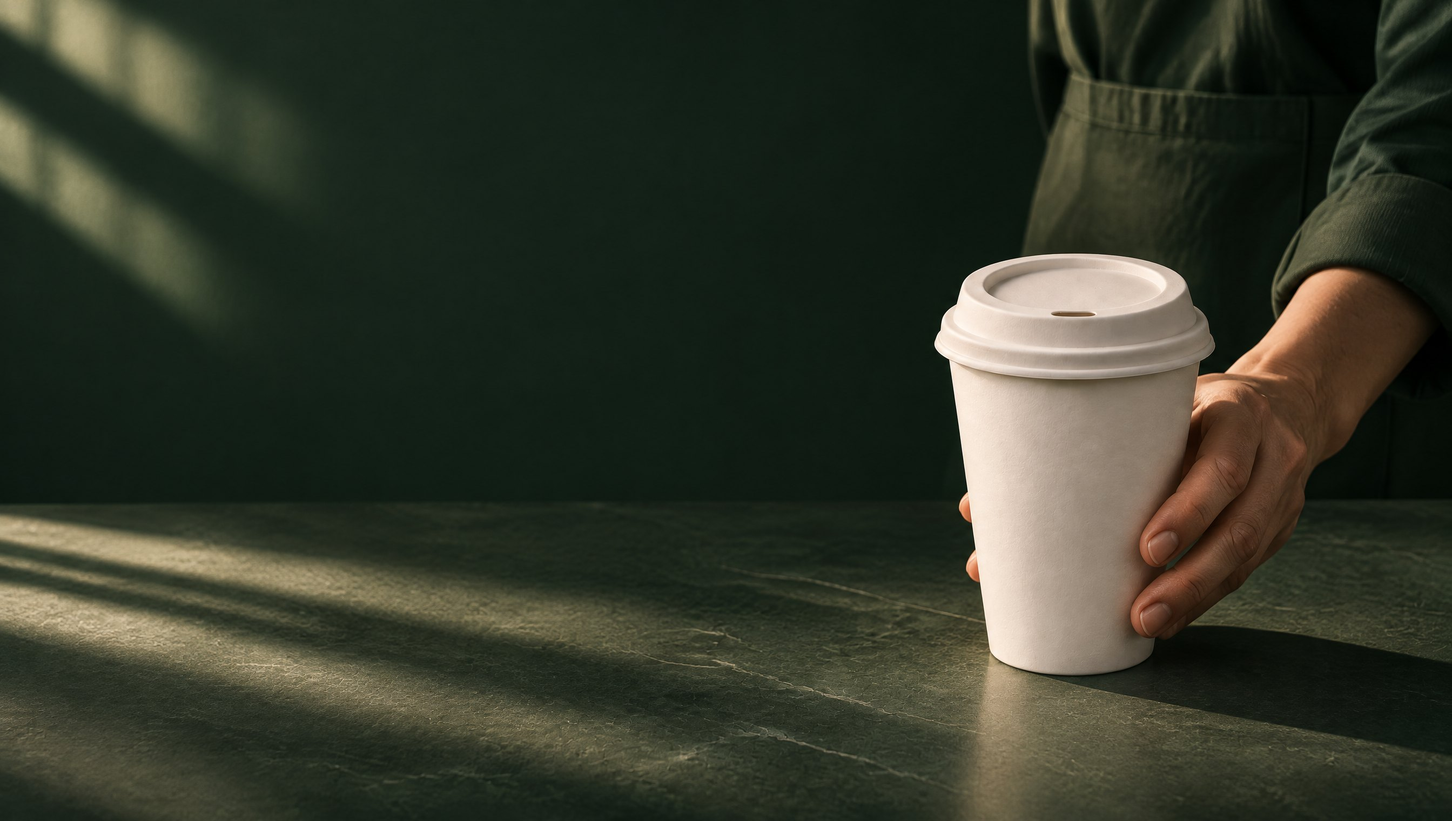
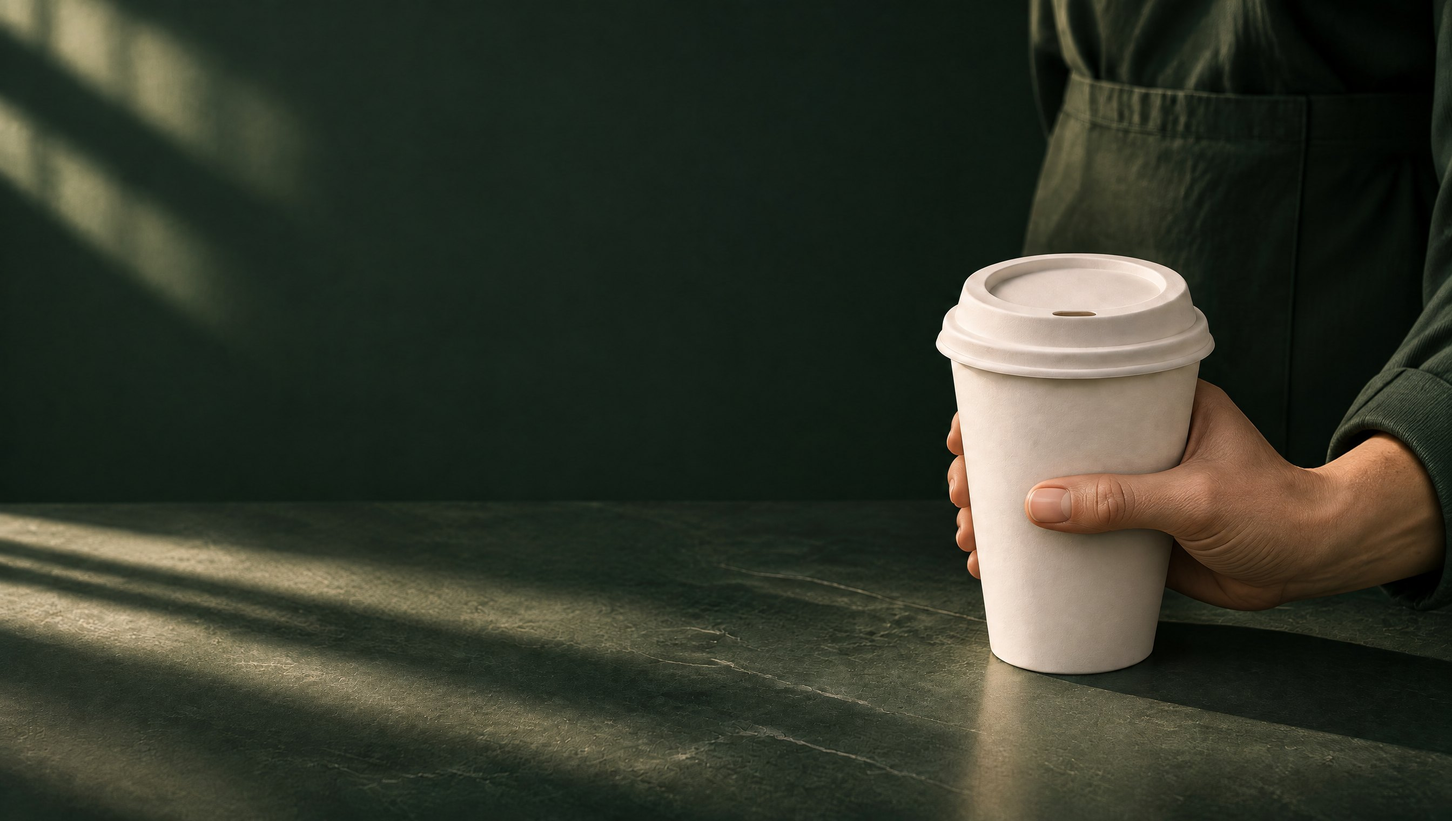
Hero: same frame, a natural grip on the cup
Regenerated the approved hero with the first take as the composition
reference and the hand spelled out (thumb across the front, four fingers
behind). Master 127; ASSET_VERSION 16.

diff --git a/src/lib/asset-version.ts b/src/lib/asset-version.ts
@@ -3,7 +3,7 @@
  * are replaced: the URLs change, so no browser or CDN keeps serving the old
  * files. next.config.ts allows exactly this query on local images.
  */
-export const ASSET_VERSION = "15";
+export const ASSET_VERSION = "16";
 
 export function v(publicPath: string): string {
   return `${publicPath}?v=${ASSET_VERSION}`;

diff --git a/CLAUDE.md b/CLAUDE.md
@@ -1,6 +1,6 @@
 # Made to Disappear site
 
-- Brand card (branch brand-card, 2026-11-12/13): docs/brand/brand-card-2026-11-12.md records the design card the user supplied in chat (the PDF was not saved) and asked to be applied to the whole site; it supersedes the colour and type guidance in docs/brand-card.md (routes, data model and claims rules there still apply). Palette: bone #EDE8DF page ground, paper #F6F2EB cards/inputs/image wells, ink #111111 text and primary buttons, soil #2A2420 the one dark band per page (the footer), stone #6B675F secondary text, ash #8B877F disabled/coming-soon/borders only, raw bamboo #C4A672 only as a left rule on notes (`.note`). The old token names in globals.css (`--color-forest`, `--color-cream`, `--color-mint`, `--color-sage`, `--color-clay`…) are kept so every utility still works, each remapped to a card colour; a "Brand card layer" at the end of globals.css overrides components: square corners everywhere except `.btn`/`.chip` (a `[class*="rounded-["]` override), no shadows/gradients/glass/mesh/grain, `.card` paper with a hairline and colour-only hover, outlined chips in lowercase, ink primary button + outlined others (one primary per screen; the header button is outlined), `.btn` and nav lowercase via text-transform, headings always ink, `.price-table`/`.spec-table` hairline rows with an ink rule under the header row, `.max-w-7xl` capped at 1120 px with 28 px gutters, Reveal fades only (200 ms), Marquee static. Type: Helvetica Neue / Arial system stack via `--font-display/--font-serif/--font-sans` (no Google fonts; JetBrains Mono stays for SKUs); .t-hero 72/1/700/-0.04em, .t-section 40, .t-page/.t-heading 26, .t-card 19, .t-lead 20/500, .t-label 11.5 caps stone. Headings are lowercase with a period in the copy itself (acronyms stay); PageHeader titles and most h2s were lowercased on 2026-11-13. Home page: hero (product on bone, headline "serve it. then let it go.", one primary + a text link, a hairline fact list), then numbered sections 01 the range (hairline product grid), 02 paper outside. PHA inside. (soil photo + hairline spec list), 03 after the coffee. (breakdown strip + three hairline columns), 04 what it costs. (CostCalculator, hairline receipt), 05 the Inner Harbour (desaturated photo + hairline stats), 06 asked often.; the footer is the only soil band and carries "keep it. then let it go." Photography (2026-11-13, GPT Image 2.6 via Higgsfield from the renders and the badge, masters in docs/brand/generated/60–65): public/hero-bone.jpg (16:9), `[sku]-front.jpg` the 4:5 pair with the base mark, `[sku]-3q.jpg` single standing cups cropped from one three-cup frame, lid front/3q; all on bone #EDE8DF with one hard light and a real shadow. ProductImage frames are 4:5 object-cover. public/icon.png and apple-icon.png are the card's favicon: an ink dot on bone, low and right.  Interaction layer (2026-11-13, after the user said the photos were off-centre and the site had no features): the product photography was regenerated on 2026-11-13 with the subject dead centre and a short soft shadow (GPT Image 2.6, masters docs/brand/generated/80–87: hero lineup, three front pairs, lid pair, three standing cups; visual mass measured within 5% of centre with the scratchpad measure.py), the 16 oz pair and standing shot were regenerated at real proportions (13.5 cm tall on a 90 mm rim, masters 92–93) after the first read as a giant tumbler (user, 2026-11-13); the lid photos are lid-only (a single lid front, a stack of three for the hover shot, two lids for card-lids.jpg; masters 89–91) because a cup wearing the lid read as another cup SKU (user, 2026-11-13), then the product tiles and gallery cut tight so the cups fill the 4:5 frame and bleed top and bottom (user, 2026-11-13: "like this… not in the middle", shown on the range tiles only); the hero keeps the full centred lineup with its margins; re-cropping the first set never looked right because the long hard shadows ran to one edge. Every photo URL carries ?v=ASSET_VERSION from src/lib/asset-version.ts (next.config.ts images.localPatterns allows exactly that query): bump the constant whenever a photo file is replaced, or browsers keep the old file for hours. soil-mark.jpg is a Higgsfield outpaint of the original (master 72), and public/breakdown/1–4.jpg are 4:5 cuts of the 4k-upscaled strip (master 73). The header is transparent until the page scrolls (ScrollState sets data-scrolled; the brand layer then paints it bone with a hairline). Home page (rebuilt 2026-11-14 to sit "just like nothing.eco", after the user asked; this supersedes the 2026-11-13 layout below): a full-bleed photograph hero (public/hero-green.jpg, master docs/brand/generated/123, a barista setting a lidded cup on a dark green stone counter with the left two thirds dark) with the headline bottom-left in bone, one bone-filled `.btn-bone` button and the from-price; phones stack the 4:5 photo over a dark green panel so the headline never crosses the cup; then "as heard on" as a label on a hairline with the CBC credit; two square photo category cards (shared-trio, shared-lid-on) with title, line and outlined bone `.chip-shot` chips at the top and a bone button bottom-left; a full-width soil band (breakdown/4.jpg under a flat `.photo-shade`) with the lining statement centred; "the range." as four ProductCards; "what happens after." with the scrubber; "we asked 167 people first." with the three percentages in hairline columns; the calculator; the FAQ. `.on-photo` sets headings to bone (the brand layer otherwise forces headings ink). The cup alts were reshot the same day with the current badge after the user pointed out the first green set carried the old arc-text mark, then reshot again at a three-quarter angle (the straight-on base view "looks like a cylinder", user) with the badge printed without its circle: the black circle in docs/brand/badge-cup-base.png was only a placeholder for the cup base, so docs/brand/badge-cup-base-nocircle.png is the reference to use (masters 124–126). The soil-mark and breakdown frames (public/soil-mark.jpg, public/breakdown/1–4.jpg) still show the mark with the circle and have not been reshot. Card rules the user set on 2026-11-14, overriding the brand card for the catalogue cards only: white type on the photo cards, 10 px corners on `.shot-card`/`.featured-tile`, the order button `.btn-order` in raw bamboo with a 3 px solid base shadow (the one "3D" element on the site), catalogue grids three across (closer tiles removed from the pages; the prop remains), related row three across. Earlier home page (2026-11-13, kept for history: the user had asked for "a mix between Bloom Energy and nothing.eco" in the card's colours; the numbered-section layout was rejected because its 160 px number column pushed every section right of centre): two-column hero (`.bleed`; headline column left, the lineup in its own column right as a cut-out: public/hero-lineup.png is an RGBA PNG (master docs/brand/generated/95-hero-lineup-cut.png) made from the centred lineup (master 94) with a difference matte (scratchpad matte.py: local background by normalised convolution, alpha from colour distance, silhouette filled solid, shadows kept semi-transparent, colour un-premultiplied), so the cups and their shadows stand on the page bone with no photo plate; a colour-matched plate was tried first (hero-lineup.jpg) and rejected by the user on 2026-11-13 as "unnatural" because the rectangle still showed; shown whole with object-contain, 8:5 frame above the text on phones; public/hero-wide.jpg (master 88) is kept but unused), a four-cell trust strip on hairlines (CBC, TÜV Austria, lining, ships from), two square feature cards with the photo as the card and text over the empty bone (card-cups.jpg / card-lids.jpg), a split statement band (the one soil panel `bg-soil-band` left, soil-mark.jpg right), "after the coffee." with the scrubber, a Bloom-style stat band (sentence + three counting percentages in hairline cells), "the range." tiles with a from-price and an outlined order button, the calculator, a full-width hairline FAQ; every section heading is a SectionHead (heading left, one outlined action right) and spans the full 1120 px. The footer ends with the wordmark set across the full width at 18% (`.footer-mark`). Copy voice (user, 2026-11-13: the copy "sounds AI"): write like the founders talk to a café owner. Plain sentences, one thought each, concrete nouns (paper, lining, bacteria, compost pile, case of 1,000). No fragment triads ("serve it. compost it. done."), no aphorisms ("the whole promise", "nothing left behind"), no clever taglines; the footer line is "hot cups and lids that compost at home. Victoria, BC." and the hero reads "a hot cup you can compost at home." Lowercase headings with a period stay; the words inside them should still be ordinary. Final pass (2026-11-13, after a whole-site design review): the home press band is the CBC credit alone ("as heard on · CBC Radio One · All Points West with Jason D'Souza"; the user asked for just that, no other trust facts); every product-level certification sentence was rewritten to the material claim (learn.ts, hero, about, whats-in-your-cup); `.spec-table` width rule now targets `tbody th:first-child` only and the compare table is `table-fixed`; `.spec-wrap` drops the doubled last line in bordered spec tables; NotifyForm compact stacks input over button; QuickOrder placeholder uses live SKUs; category pages get 3-across for cups plus the sample/quick-order notes; the top announcement band is hidden on phones and the consumer/business toggle sits beside the phone search field; the account sign-in uses PageHeader; the compost certificate band and custom-printing step 04 became notes; legal headings are lowercase with a period; the hero plate (hero-wide.jpg) is colour-matched to bone #EDE8DF so it meets the page without a step. The user still owes: `npm run db:seed` (prices), the "not plastic" wording decision (learn says PHA counts as a plastic under the EU definition; the hero and certifications page say no plastic lining), and the certificate numbers. Catalogue (rebuilt 2026-11-13 after the user asked for product cards and product pages like nothing.eco, whose palette is almost ours: page #EDE6DD, cards #F6F3EE, ink #1D1D1B; the difference is the photography and the card structure): the photograph is the card. ProductCard is a 2:3 photo tile with the category label, SKU, lowercase name and tagline in bone over the dark back wall, and CardPrice (business: from ¢ a cup · case; consumer: pack price), the stock line and one outlined bone "order" button (`.btn-shot`) over the floor; HoverSwap fades to `[sku]-alt.jpg` (cups on their side with the base mark, the lid on a cup). The card is a CSS container: under 320 px (phones two across, the home row of four) it drops tagline, SKU and stock line and puts the price beside a small button so nothing crosses the cup. CatalogGrid: toolbar (pills, count, search), a hairline row of five facts, then a 3-across grid (2 on phones) with an optional `featured` lifestyle tile spanning two columns (products: the café-counter shot; lids: the barista hand; cups: none). Product page: ProductGallery is one 4:5 frame with cross-fading slides, round outlined arrows, dots and touch swipe (no thumbnails, no `motion`); the buy column is label · SKU, t-section name with a period, a plain lead (tagline + material + case count), CertChip, a fact row, size chips, Price, then AddToCart in its full form (unit chips, a −/+ stepper bar reading quantity · units · price each · line total, one primary add to cart), the volume/quote line, "pair it with" PairedAdd rows (photo, name, from-price, square + button), and a "details and specs." accordion holding SpecTable; under the gallery a custom-printing card; below, the FAQ and a two-up band (counter photo + paper panel linking /compost). Photography: public/products/README.md lists the set (fronts, alts, shared-trio/lid-on/case/life-hand/life-counter). Reshot on 2026-11-14 on a deep bottle-green sweep after the user asked for "a luxurious dark green" instead of brown (masters docs/brand/generated/108–119, GPT Image 2.6 at quality medium, 0.5 credits a 1k frame and 1.0 at 2k; the kraft frames 96–107 were fed back as composition references so every green frame matches its predecessor); a local hue-shift of the kraft frames was tried first and rejected as a tinted photo. Base-mark frames read only "made to disappear. / home compostable / no microplastics", never a certifier name. Layout pass the same day to sit "almost exactly" on nothing.eco: catalogue and category pages open with breadcrumb + title + lead (no PageHeader band), pills and search on one row, a single-line scrolling `.facts-strip` with circled ticks, then a 4-across grid (2 on phones) where the featured lifestyle tile takes two cells at the top and `closers` (more lifestyle tiles, span 1 or 2) finish the last row so every row is full (products: counter + 4 cards + barista; cups: 3 cards + trio; lids: barista + lid + lid-on); the card is `aspect-[2/3]` with the photo in a `.shot-well` 12% taller than the card so the cup sits clear of the price, no stock line on the tile, compact layout under 240 px (`@[15rem]`); the product page is `1.5fr 1fr` with a square gallery (filled arrows, bone dots inside the frame), round `.size-pill` sizes, no separate Price block (the stepper carries the price), a "goes with it." ProductCard row at the end, and /products ends with a six-question "asked often." FAQ from homeFaq. The home feature cards now use shared-trio.jpg and the lid-on-cup frame, and the home range row uses ProductCard. The `motion` library is no longer imported by CatalogGrid or ProductGallery. SectionRail/CountUp/BreakdownScrubber/HoverSwap remain as components (SectionRail is no longer rendered). Motion layer (end of globals.css, all inside prefers-reduced-motion: no-preference): `.hero-in` children rise in with a stagger and `.hero-photo` settles from a 1.04 scale on load (scale only, never opacity: a fade on the hero image delays LCP; CSS only, no JS on the critical path); Reveal/RevealGroup now fade and rise 14 px over 700 ms with the stagger step; `.drift` gives the soil photo an 18 s alternate zoom; `.zoom-on-hover` and HoverSwap scale the photo 1.035 on hover; buttons lift 1 px on hover and press to 0.98; details answers rise in; smooth scrolling. HoverSwap fades product tiles and cards to the standing `-3q` shot on hover (Product.hover from withAssets), BreakdownScrubber is the four-frame well you drag across or pick a stage from (it steps through once on arrival, then only moves when moved), CountUp counts the survey percentages in. All fades, nothing slides. Harnesses: scratchpad hovershot.mjs (hover + screenshot) and scrollshot.mjs. Phone pass 2026-11-13: every page checked at 390 px with no overflow; the trust strip is 2×2 on phones, the hero photo stacks above the text with the lineup at 58%, interactive chips and small buttons get 36–44 px hit areas under (hover: none); Lighthouse mobile on the local build scored 90 with CLS 0. The older passes live on branches calmer-register and draft-blend; the user's standing rules from them still hold (no "per SKU", flat 16/17/18¢ pricing, Learn library, cost calculator as a sentence + receipt).
+- Brand card (branch brand-card, 2026-11-12/13): docs/brand/brand-card-2026-11-12.md records the design card the user supplied in chat (the PDF was not saved) and asked to be applied to the whole site; it supersedes the colour and type guidance in docs/brand-card.md (routes, data model and claims rules there still apply). Palette: bone #EDE8DF page ground, paper #F6F2EB cards/inputs/image wells, ink #111111 text and primary buttons, soil #2A2420 the one dark band per page (the footer), stone #6B675F secondary text, ash #8B877F disabled/coming-soon/borders only, raw bamboo #C4A672 only as a left rule on notes (`.note`). The old token names in globals.css (`--color-forest`, `--color-cream`, `--color-mint`, `--color-sage`, `--color-clay`…) are kept so every utility still works, each remapped to a card colour; a "Brand card layer" at the end of globals.css overrides components: square corners everywhere except `.btn`/`.chip` (a `[class*="rounded-["]` override), no shadows/gradients/glass/mesh/grain, `.card` paper with a hairline and colour-only hover, outlined chips in lowercase, ink primary button + outlined others (one primary per screen; the header button is outlined), `.btn` and nav lowercase via text-transform, headings always ink, `.price-table`/`.spec-table` hairline rows with an ink rule under the header row, `.max-w-7xl` capped at 1120 px with 28 px gutters, Reveal fades only (200 ms), Marquee static. Type: Helvetica Neue / Arial system stack via `--font-display/--font-serif/--font-sans` (no Google fonts; JetBrains Mono stays for SKUs); .t-hero 72/1/700/-0.04em, .t-section 40, .t-page/.t-heading 26, .t-card 19, .t-lead 20/500, .t-label 11.5 caps stone. Headings are lowercase with a period in the copy itself (acronyms stay); PageHeader titles and most h2s were lowercased on 2026-11-13. Home page: hero (product on bone, headline "serve it. then let it go.", one primary + a text link, a hairline fact list), then numbered sections 01 the range (hairline product grid), 02 paper outside. PHA inside. (soil photo + hairline spec list), 03 after the coffee. (breakdown strip + three hairline columns), 04 what it costs. (CostCalculator, hairline receipt), 05 the Inner Harbour (desaturated photo + hairline stats), 06 asked often.; the footer is the only soil band and carries "keep it. then let it go." Photography (2026-11-13, GPT Image 2.6 via Higgsfield from the renders and the badge, masters in docs/brand/generated/60–65): public/hero-bone.jpg (16:9), `[sku]-front.jpg` the 4:5 pair with the base mark, `[sku]-3q.jpg` single standing cups cropped from one three-cup frame, lid front/3q; all on bone #EDE8DF with one hard light and a real shadow. ProductImage frames are 4:5 object-cover. public/icon.png and apple-icon.png are the card's favicon: an ink dot on bone, low and right.  Interaction layer (2026-11-13, after the user said the photos were off-centre and the site had no features): the product photography was regenerated on 2026-11-13 with the subject dead centre and a short soft shadow (GPT Image 2.6, masters docs/brand/generated/80–87: hero lineup, three front pairs, lid pair, three standing cups; visual mass measured within 5% of centre with the scratchpad measure.py), the 16 oz pair and standing shot were regenerated at real proportions (13.5 cm tall on a 90 mm rim, masters 92–93) after the first read as a giant tumbler (user, 2026-11-13); the lid photos are lid-only (a single lid front, a stack of three for the hover shot, two lids for card-lids.jpg; masters 89–91) because a cup wearing the lid read as another cup SKU (user, 2026-11-13), then the product tiles and gallery cut tight so the cups fill the 4:5 frame and bleed top and bottom (user, 2026-11-13: "like this… not in the middle", shown on the range tiles only); the hero keeps the full centred lineup with its margins; re-cropping the first set never looked right because the long hard shadows ran to one edge. Every photo URL carries ?v=ASSET_VERSION from src/lib/asset-version.ts (next.config.ts images.localPatterns allows exactly that query): bump the constant whenever a photo file is replaced, or browsers keep the old file for hours. soil-mark.jpg is a Higgsfield outpaint of the original (master 72), and public/breakdown/1–4.jpg are 4:5 cuts of the 4k-upscaled strip (master 73). The header is transparent until the page scrolls (ScrollState sets data-scrolled; the brand layer then paints it bone with a hairline). Home page (rebuilt 2026-11-14 to sit "just like nothing.eco", after the user asked; this supersedes the 2026-11-13 layout below): a full-bleed photograph hero (public/hero-green.jpg, master docs/brand/generated/127, a barista holding a lidded cup on a dark green stone counter with the left two thirds dark; master 123 was the first take, which the user liked but whose hand had two fingers one side and three the other, so it was regenerated with 123 as the composition reference and the grip spelled out: thumb across the front, four fingers behind) with the headline bottom-left in bone, one bone-filled `.btn-bone` button and the from-price; phones stack the 4:5 photo over a dark green panel so the headline never crosses the cup; then "as heard on" as a label on a hairline with the CBC credit; two square photo category cards (shared-trio, shared-lid-on) with title, line and outlined bone `.chip-shot` chips at the top and a bone button bottom-left; a full-width soil band (breakdown/4.jpg under a flat `.photo-shade`) with the lining statement centred; "the range." as four ProductCards; "what happens after." with the scrubber; "we asked 167 people first." with the three percentages in hairline columns; the calculator; the FAQ. `.on-photo` sets headings to bone (the brand layer otherwise forces headings ink). The cup alts were reshot the same day with the current badge after the user pointed out the first green set carried the old arc-text mark, then reshot again at a three-quarter angle (the straight-on base view "looks like a cylinder", user) with the badge printed without its circle: the black circle in docs/brand/badge-cup-base.png was only a placeholder for the cup base, so docs/brand/badge-cup-base-nocircle.png is the reference to use (masters 124–126). The soil-mark and breakdown frames (public/soil-mark.jpg, public/breakdown/1–4.jpg) still show the mark with the circle and have not been reshot. Card rules the user set on 2026-11-14, overriding the brand card for the catalogue cards only: white type on the photo cards, 10 px corners on `.shot-card`/`.featured-tile`, the order button `.btn-order` in raw bamboo with a 3 px solid base shadow (the one "3D" element on the site), catalogue grids three across (closer tiles removed from the pages; the prop remains), related row three across. Earlier home page (2026-11-13, kept for history: the user had asked for "a mix between Bloom Energy and nothing.eco" in the card's colours; the numbered-section layout was rejected because its 160 px number column pushed every section right of centre): two-column hero (`.bleed`; headline column left, the lineup in its own column right as a cut-out: public/hero-lineup.png is an RGBA PNG (master docs/brand/generated/95-hero-lineup-cut.png) made from the centred lineup (master 94) with a difference matte (scratchpad matte.py: local background by normalised convolution, alpha from colour distance, silhouette filled solid, shadows kept semi-transparent, colour un-premultiplied), so the cups and their shadows stand on the page bone with no photo plate; a colour-matched plate was tried first (hero-lineup.jpg) and rejected by the user on 2026-11-13 as "unnatural" because the rectangle still showed; shown whole with object-contain, 8:5 frame above the text on phones; public/hero-wide.jpg (master 88) is kept but unused), a four-cell trust strip on hairlines (CBC, TÜV Austria, lining, ships from), two square feature cards with the photo as the card and text over the empty bone (card-cups.jpg / card-lids.jpg), a split statement band (the one soil panel `bg-soil-band` left, soil-mark.jpg right), "after the coffee." with the scrubber, a Bloom-style stat band (sentence + three counting percentages in hairline cells), "the range." tiles with a from-price and an outlined order button, the calculator, a full-width hairline FAQ; every section heading is a SectionHead (heading left, one outlined action right) and spans the full 1120 px. The footer ends with the wordmark set across the full width at 18% (`.footer-mark`). Copy voice (user, 2026-11-13: the copy "sounds AI"): write like the founders talk to a café owner. Plain sentences, one thought each, concrete nouns (paper, lining, bacteria, compost pile, case of 1,000). No fragment triads ("serve it. compost it. done."), no aphorisms ("the whole promise", "nothing left behind"), no clever taglines; the footer line is "hot cups and lids that compost at home. Victoria, BC." and the hero reads "a hot cup you can compost at home." Lowercase headings with a period stay; the words inside them should still be ordinary. Final pass (2026-11-13, after a whole-site design review): the home press band is the CBC credit alone ("as heard on · CBC Radio One · All Points West with Jason D'Souza"; the user asked for just that, no other trust facts); every product-level certification sentence was rewritten to the material claim (learn.ts, hero, about, whats-in-your-cup); `.spec-table` width rule now targets `tbody th:first-child` only and the compare table is `table-fixed`; `.spec-wrap` drops the doubled last line in bordered spec tables; NotifyForm compact stacks input over button; QuickOrder placeholder uses live SKUs; category pages get 3-across for cups plus the sample/quick-order notes; the top announcement band is hidden on phones and the consumer/business toggle sits beside the phone search field; the account sign-in uses PageHeader; the compost certificate band and custom-printing step 04 became notes; legal headings are lowercase with a period; the hero plate (hero-wide.jpg) is colour-matched to bone #EDE8DF so it meets the page without a step. The user still owes: `npm run db:seed` (prices), the "not plastic" wording decision (learn says PHA counts as a plastic under the EU definition; the hero and certifications page say no plastic lining), and the certificate numbers. Catalogue (rebuilt 2026-11-13 after the user asked for product cards and product pages like nothing.eco, whose palette is almost ours: page #EDE6DD, cards #F6F3EE, ink #1D1D1B; the difference is the photography and the card structure): the photograph is the card. ProductCard is a 2:3 photo tile with the category label, SKU, lowercase name and tagline in bone over the dark back wall, and CardPrice (business: from ¢ a cup · case; consumer: pack price), the stock line and one outlined bone "order" button (`.btn-shot`) over the floor; HoverSwap fades to `[sku]-alt.jpg` (cups on their side with the base mark, the lid on a cup). The card is a CSS container: under 320 px (phones two across, the home row of four) it drops tagline, SKU and stock line and puts the price beside a small button so nothing crosses the cup. CatalogGrid: toolbar (pills, count, search), a hairline row of five facts, then a 3-across grid (2 on phones) with an optional `featured` lifestyle tile spanning two columns (products: the café-counter shot; lids: the barista hand; cups: none). Product page: ProductGallery is one 4:5 frame with cross-fading slides, round outlined arrows, dots and touch swipe (no thumbnails, no `motion`); the buy column is label · SKU, t-section name with a period, a plain lead (tagline + material + case count), CertChip, a fact row, size chips, Price, then AddToCart in its full form (unit chips, a −/+ stepper bar reading quantity · units · price each · line total, one primary add to cart), the volume/quote line, "pair it with" PairedAdd rows (photo, name, from-price, square + button), and a "details and specs." accordion holding SpecTable; under the gallery a custom-printing card; below, the FAQ and a two-up band (counter photo + paper panel linking /compost). Photography: public/products/README.md lists the set (fronts, alts, shared-trio/lid-on/case/life-hand/life-counter). Reshot on 2026-11-14 on a deep bottle-green sweep after the user asked for "a luxurious dark green" instead of brown (masters docs/brand/generated/108–119, GPT Image 2.6 at quality medium, 0.5 credits a 1k frame and 1.0 at 2k; the kraft frames 96–107 were fed back as composition references so every green frame matches its predecessor); a local hue-shift of the kraft frames was tried first and rejected as a tinted photo. Base-mark frames read only "made to disappear. / home compostable / no microplastics", never a certifier name. Layout pass the same day to sit "almost exactly" on nothing.eco: catalogue and category pages open with breadcrumb + title + lead (no PageHeader band), pills and search on one row, a single-line scrolling `.facts-strip` with circled ticks, then a 4-across grid (2 on phones) where the featured lifestyle tile takes two cells at the top and `closers` (more lifestyle tiles, span 1 or 2) finish the last row so every row is full (products: counter + 4 cards + barista; cups: 3 cards + trio; lids: barista + lid + lid-on); the card is `aspect-[2/3]` with the photo in a `.shot-well` 12% taller than the card so the cup sits clear of the price, no stock line on the tile, compact layout under 240 px (`@[15rem]`); the product page is `1.5fr 1fr` with a square gallery (filled arrows, bone dots inside the frame), round `.size-pill` sizes, no separate Price block (the stepper carries the price), a "goes with it." ProductCard row at the end, and /products ends with a six-question "asked often." FAQ from homeFaq. The home feature cards now use shared-trio.jpg and the lid-on-cup frame, and the home range row uses ProductCard. The `motion` library is no longer imported by CatalogGrid or ProductGallery. SectionRail/CountUp/BreakdownScrubber/HoverSwap remain as components (SectionRail is no longer rendered). Motion layer (end of globals.css, all inside prefers-reduced-motion: no-preference): `.hero-in` children rise in with a stagger and `.hero-photo` settles from a 1.04 scale on load (scale only, never opacity: a fade on the hero image delays LCP; CSS only, no JS on the critical path); Reveal/RevealGroup now fade and rise 14 px over 700 ms with the stagger step; `.drift` gives the soil photo an 18 s alternate zoom; `.zoom-on-hover` and HoverSwap scale the photo 1.035 on hover; buttons lift 1 px on hover and press to 0.98; details answers rise in; smooth scrolling. HoverSwap fades product tiles and cards to the standing `-3q` shot on hover (Product.hover from withAssets), BreakdownScrubber is the four-frame well you drag across or pick a stage from (it steps through once on arrival, then only moves when moved), CountUp counts the survey percentages in. All fades, nothing slides. Harnesses: scratchpad hovershot.mjs (hover + screenshot) and scrollshot.mjs. Phone pass 2026-11-13: every page checked at 390 px with no overflow; the trust strip is 2×2 on phones, the hero photo stacks above the text with the lineup at 58%, interactive chips and small buttons get 36–44 px hit areas under (hover: none); Lighthouse mobile on the local build scored 90 with CLS 0. The older passes live on branches calmer-register and draft-blend; the user's standing rules from them still hold (no "per SKU", flat 16/17/18¢ pricing, Learn library, cost calculator as a sentence + receipt).
 - Do not mention shipping speed (no same-day, cutoffs or dispatch times) and never present the round wordmark badge as a certification mark: it is our logo, not TÜV Austria's.
 - The site never shows its own to-do list: no "pending", "TODO" or placeholder values in copy, chips, tables or the PDF. Missing data (certificate numbers, phone) is omitted, not labelled. Ask the user for it in chat instead.
 - Never use the words biodegradable, marine, ocean, landfill, municipal, green bin, eco or planet-friendly in site copy. `npm run lint:copy` enforces this and runs before every build.
